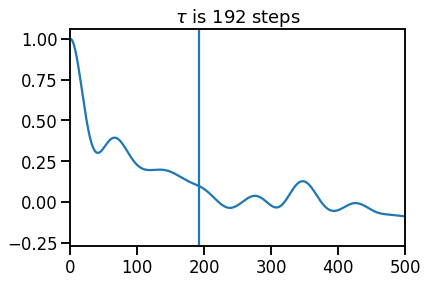
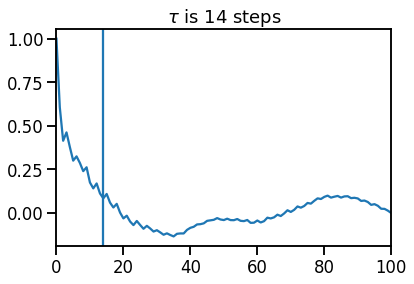
docs | do postprocessing with ab initio

diff --git a/docs/Tutorial/3_md_postprocess.md b/docs/Tutorial/3_md_postprocess.md
@@ -1,7 +1,7 @@
 # Postprocessing
 
 !!! warning
-	We assume you successfully ran the simulation of Lennard-Jones Argon at $20\,{\rm K}$ from the [previous chapter](3_md_canonical_sampling.md) and created a `trajectory.nc` dataset. You can can also take the reference data from [here](https://gitlab.com/vibes-developers/vibes-tutorial-files/-/tree/master/3_molecular_dynamics/LJ_Argon).
+	We assume you successfully ran the simulation of LDA-Silicon at $300\,{\rm K}$ from the [previous chapter](3_md_ab_initio.md) and created a `trajectory.nc` dataset. You can can also take the reference data from [here](https://gitlab.com/vibes-developers/vibes-tutorial-files/-/tree/master/3_molecular_dynamics/ab_initio/si_8).
 
 ### Example: Pressure
 
@@ -31,14 +31,14 @@ df[["temperature", "temperature_mean"]].plot()
 ??? info "`df.plot`"
 	![image](assets/md_temperature.png)
 	
-Since the calculation starts with all atoms located at their equilibrium positions, the initial potential energy is zero and the kinetic energy given to the system is converted to potential energy at early simulation times. In turn, the temperature drops from $20\,{\rm K}$ to about $10\,{\rm K}$. The missing energy is gradually provided by the thermostat, bringing the nuclear temperature back to $\sim 20\,{\rm K}$ after a few $\rm ps$.
+Since the calculation starts with all atoms located at their equilibrium positions, the initial potential energy is zero and the kinetic energy given to the system is converted to potential energy at early simulation times. In turn, the temperature drops from $300\,{\rm K}$ to about $150\,{\rm K}$. The missing energy is gradually provided by the thermostat, bringing the nuclear temperature back to $\sim 300\,{\rm K}$ after a few $\rm ps$.
 
 #### Discard thermalization period
 We can remove the thermalization period from the simulation data, e.g., by [shifting the dataframe](https://pandas.pydata.org/pandas-docs/stable/reference/api/pandas.DataFrame.shift.html):
 
 ```python
-# discard 2500 steps (5ps) of thermalization
-shift = 2500
+# discard 500 steps (2ps) of thermalization
+shift = 500
 
 df = df.shift(-shift).dropna()
 
@@ -64,6 +64,7 @@ p.expanding().mean().plot(ax=ax, color="k")
 ??? info "Plot pressure"
 	![image](assets/md_pressure.png)
 	
+
 #### Expectation value and convergence estimation
 
 [As discussed earlier](3_md_intro.md), the expectation value of the pressure is given by the mean of the observed pressures,
@@ -78,17 +79,17 @@ $$
 \end{align}
 $$
 
-In our finite simulation, $N_{\rm t} = 5000 < \infty$, so that
+In our finite simulation, $N_{\rm t} = 2000 < \infty$, so that
 
 $$
 \begin{align}
 \left\langle p_{\rm Pot} \right\rangle
-= \left\langle p_{\rm Pot} \right\rangle_{N_t = 5000} + \Delta~,
+= \left\langle p_{\rm Pot} \right\rangle_{N_t = 2000} + \Delta~,
 \label{eq:p_final}
 \end{align}
 $$
 
-where $\left\langle p_{\rm Pot} \right\rangle_{N_t = 5000} = 0.1064\,{\rm GPa}$ is the mean pressure observed during the finite simulation, and $\Delta$ is the (unknown) difference to the fully converged expectation value. While we are never able to fully converge a calculation, we can nevertheless estimate the magnitude of the error $\Delta$.
+where $\left\langle p_{\rm Pot} \right\rangle_{N_t = 2000} = -0.613\,{\rm GPa}$ is the mean pressure observed during the finite simulation, and $\Delta$ is the (unknown) difference to the fully converged expectation value. While we are never able to fully converge a calculation, we can nevertheless estimate the magnitude of the error $\Delta$.
 
 We estimate this error by computing $\sigma_{\langle p \rangle}$, the [_standard error of the mean_](https://en.wikipedia.org/wiki/Standard_error):
 
@@ -126,7 +127,7 @@ corr = si.correlate(pp, pp)[len(pp) - 1 :]
 # normalize to C(0) = 1
 corr /= corr[0]
 
-# create as pandas.Series for plotting and smoothen out the data a bit
+# create as pandas.Series for plotting
 s = pd.Series(corr).rolling(min_periods=0, window=10).mean()
 ax = s.plot()
 
@@ -134,18 +135,18 @@ ax = s.plot()
 tau = s.index.where(s < 0.1).min()
 ax.axvline(tau)
 
-ax.set_xlim(0, 500)
+ax.set_xlim(0, 100)
 ax.set_title(f"$\\tau$ is {int(tau)} steps")
 ```
 
 ??? info "Plot pressure autocorrelation function"
 	![image](assets/md_autocorr.png)
 
-In the  present example, the observable decorrelates after about 192 time steps ($\equiv 768\,{\rm fs}$). We therefore estimate the number of uncorrelated samples to be 
+In the  present example, the observable decorrelates after about 14 time steps ($\equiv 56\,{\rm fs}$). We therefore estimate the number of uncorrelated samples to be 
 
 $$
 \begin{align*}
-	\tilde N_t = N_t / 192 \approx 26
+	\tilde N_t = N_t / 14 \approx 142
 \end{align*}
 $$
 
@@ -153,14 +154,14 @@ The standard deviation of the pressure distribution is
 
 $$
 \begin{align}
-	\sigma_p = 0.0046\,{\rm GPa}~,
+	\sigma_p = 0.23426\,{\rm GPa}~,
 \end{align}
 $$
 
 so that according to Eq. $\eqref{eq:sigma_O}$,
 
 $$
-\sigma_{\langle p \rangle} = \frac{0.0046}{\sqrt{26}}\,{\rm GPa} \approx 0.0009\,{\rm GPa}~.
+\sigma_{\langle p \rangle} = \frac{0.23426}{\sqrt{142}}\,{\rm GPa} \approx 0.06167\,{\rm GPa}~.
 $$
 
 
@@ -168,11 +169,11 @@ The final result for the pressure according to Eq. $\eqref{eq:p_final}$ is
 
 $$
 \begin{align*}
-	\langle p_{\rm Pot} (20\,{\rm K}) \rangle = (0.1064 \pm 0.0009)\,{\rm GPa}~,
+	\langle p_{\rm Pot} (300\,{\rm K}) \rangle = (-0.61255 \pm 0.06167)\,{\rm GPa}~,
 \end{align*}
 $$
 
-which means that our result is converged within an estimated precision of $1\,\%$. **Remark:** This does _not_ mean that the true expectation lies within the given range. The estimated error is to be understood in the sense of a [confidence interval](https://en.wikipedia.org/wiki/Confidence_interval#Practical_example).
+which means that our result is converged within an estimated precision of $10\,\%$. **Remark:** This does _not_ mean that the true expectation lies within the given range. The estimated error is to be understood in the sense of a [confidence interval](https://en.wikipedia.org/wiki/Confidence_interval#Practical_example).
 
 ??? info "Code snippet to compute the mean and the error estimator"
 

diff --git a/docs/Tutorial/3_md_ab_initio.md b/docs/Tutorial/3_md_ab_initio.md
@@ -247,7 +247,7 @@ You can perform postprocessing of the pressure by [inspecting the trajectory dat
 ??? info "reference pressure"
 	For 8 atoms LDA-Silicon, you should get a potential pressure of $-0.61 \pm 0.06 {}$
 	
-[A more detailed introduction to postprocessing including example scripts is given below for LJ-Argon.](3_md_postprocess.md)
+[A more detailed introduction to postprocessing including example scripts is given in the next chapter.](3_md_postprocess.md)
 
 ## References
 Running the calculation will take some time depending on the computer your working with. You find references [in our reference repository](https://gitlab.com/vibes-developers/vibes-tutorial-files/-/tree/master/3_molecular_dynamics/ab_initio). There you also find reference calculations for 64 and 216 atoms.
